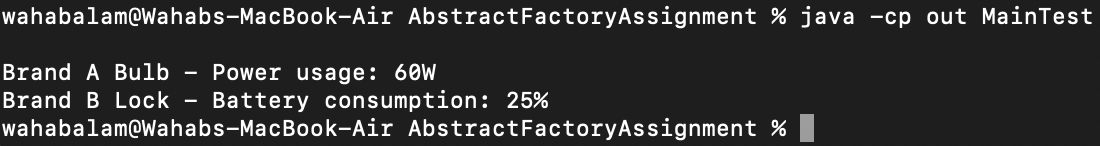
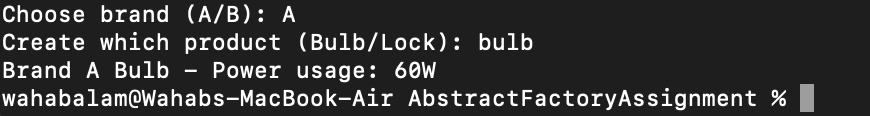
Abstract Factory + Factory Method with CSV-backed usage; add screenshot and README

Changed region(s): [[0.0, 0.2845, 0.6207, 0.7759], [0.0, 0.7241, 0.9621, 0.9828], [0.0, 0.0259, 0.9931, 0.2069]]

diff --git a/src/CsvUsageFactory.java b/src/CsvUsageFactory.java
@@ -1,0 +1,42 @@
+import java.io.BufferedReader;
+import java.io.FileReader;
+import java.io.IOException;
+import java.util.HashMap;
+import java.util.Map;
+
+/**
+ * Simple read-only CSV lookup. No prompts, no writes.
+ * CSV format:
+ *   brand,product,value
+ *   BrandA,Bulb,60
+ *   BrandB,Lock,25
+ */
+public class CsvUsageFactory implements UsageFactory {
+    private final Map<String, Integer> table = new HashMap<>();
+
+    public CsvUsageFactory(String csvPath) {
+        try (BufferedReader br = new BufferedReader(new FileReader(csvPath))) {
+            String line;
+            while ((line = br.readLine()) != null) {
+                line = line.trim();
+                if (line.isEmpty() || line.toLowerCase().startsWith("brand,product,value")) continue;
+                String[] parts = line.split(",");
+                if (parts.length != 3) continue;
+
+                String brand   = parts[0].trim().toLowerCase();
+                String product = parts[1].trim().toLowerCase();
+                int value = Integer.parseInt(parts[2].trim());
+
+                table.put(brand + "|" + product, value);
+            }
+        } catch (IOException e) {
+            System.out.println("Error reading CSV: " + e.getMessage());
+        }
+    }
+
+    @Override
+    public int load(String brand, String product) {
+        String key = brand.toLowerCase() + "|" + product.toLowerCase();
+        return table.getOrDefault(key, -1); // returns -1 if not found
+    }
+}

diff --git a/test/MainTest.java b/test/MainTest.java
@@ -1,15 +1,28 @@
+import java.util.Scanner;
+
 public class MainTest {
     public static void main(String[] args) {
-        // Example 1: Brand A Bulb
-        AbstractFactory factoryA = new FactoryA();
-        Bulb bulbA = factoryA.createBulb();
-        bulbA.setPowerUsage(60); // simulate reading from file
-        bulbA.showSpecs();
+        Scanner in = new Scanner(System.in);
+        UsageFactory usage = new CsvUsageFactory("data/device_usage.csv");
 
-        // Example 2: Brand B Lock
-        AbstractFactory factoryB = new FactoryB();
-        Lock lockB = factoryB.createLock();
-        lockB.setBatteryConsumption(25); // simulate reading from file
-        lockB.showSpecs();
+        // Choose brand
+        System.out.print("Choose brand (A/B): ");
+        String b = in.nextLine().trim();
+        AbstractFactory factory = (b.equalsIgnoreCase("A"))
+                ? new FactoryA(usage)
+                : new FactoryB(usage);
+
+        // Choose product
+        System.out.print("Create which product (Bulb/Lock): ");
+        String p = in.nextLine().trim();
+
+        // Create; factories set usage AFTER creation using the CSV
+        if (p.equalsIgnoreCase("Bulb")) {
+            Bulb bulb = factory.createBulb();
+            bulb.showSpecs();
+        } else {
+            Lock lock = factory.createLock();
+            lock.showSpecs();
+        }
     }
 }

diff --git a/src/FactoryA.java b/src/FactoryA.java
@@ -1,11 +1,24 @@
 public class FactoryA implements AbstractFactory {
+    private final UsageFactory usage;
+
+    public FactoryA(UsageFactory usage) {
+        this.usage = usage;
+    }
+
     @Override
     public Bulb createBulb() {
-        return new BulbA();
+        Bulb b = new BulbA(); // created first
+        b.setPowerUsage(usage.load(getBrand(), "Bulb")); // set after creation
+        return b;
     }
 
     @Override
     public Lock createLock() {
-        return new LockA();
+        Lock l = new LockA();
+        l.setBatteryConsumption(usage.load(getBrand(), "Lock")); // set after creation
+        return l;
     }
+
+    @Override
+    public String getBrand() { return "BrandA"; }
 }

diff --git a/src/FactoryB.java b/src/FactoryB.java
@@ -1,11 +1,24 @@
 public class FactoryB implements AbstractFactory {
+    private final UsageFactory usage;
+
+    public FactoryB(UsageFactory usage) {
+        this.usage = usage;
+    }
+
     @Override
     public Bulb createBulb() {
-        return new BulbB();
+        Bulb b = new BulbB();
+        b.setPowerUsage(usage.load(getBrand(), "Bulb"));
+        return b;
     }
 
     @Override
     public Lock createLock() {
-        return new LockB();
+        Lock l = new LockB();
+        l.setBatteryConsumption(usage.load(getBrand(), "Lock"));
+        return l;
     }
+
+    @Override
+    public String getBrand() { return "BrandB"; }
 }

diff --git a/src/AbstractFactory.java b/src/AbstractFactory.java
@@ -1,4 +1,5 @@
 public interface AbstractFactory {
     Bulb createBulb();
     Lock createLock();
+    String getBrand();
 }

diff --git a/src/UsageFactory.java b/src/UsageFactory.java
@@ -1,0 +1,3 @@
+public interface UsageFactory {
+    int load(String brand, String product);
+}
